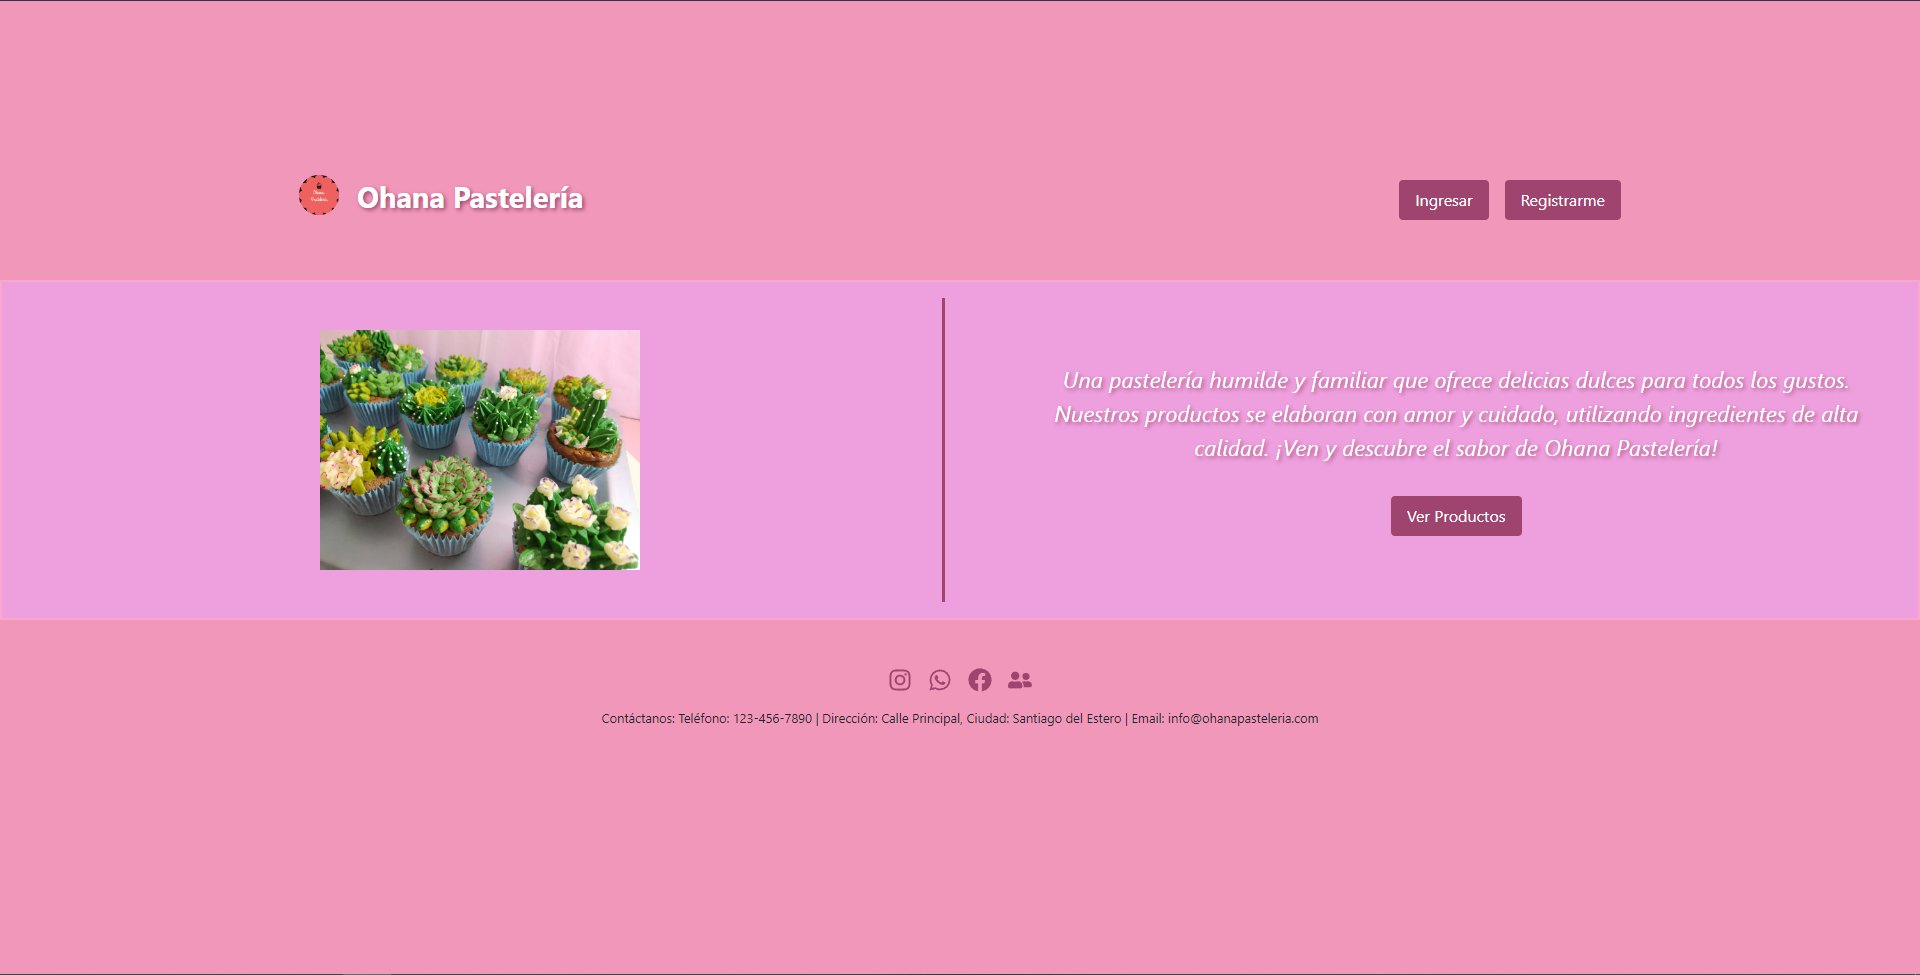
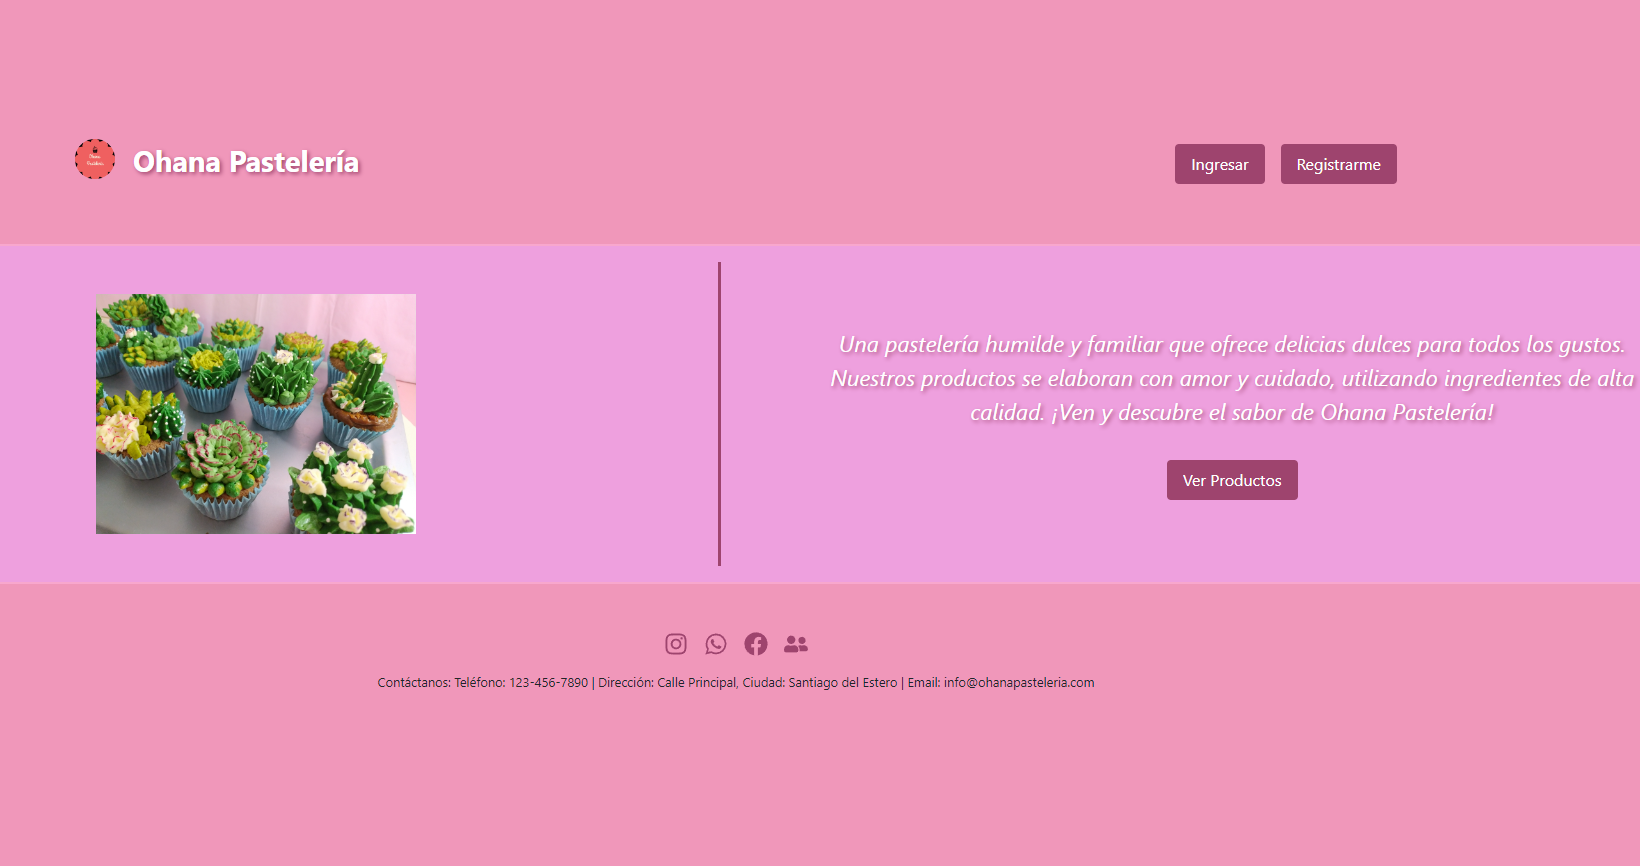
arreglo de navbar y botones para la seccion proyectos

diff --git a/src/components/Navbar.jsx b/src/components/Navbar.jsx
@@ -27,10 +27,10 @@ const Navbar = ({handleDark}) => {
         
         <nav className="flex md:flex-row  md:items-center w-[80%] 2xl:w-[70%] m-auto items-center  py-4 ">
             <div className="md:w-1/3 p-0 m-0 md:block">
-                <ul className={`md:flex md:items-center absolute md:static bg-white text-black md:bg-transparent md:text-white md:z-auto z-[-1] left-0  md:w-auto md:pl-0 pl-8 w-full  transition-all duration-500 ease-in ${open ? "top-16" : "top-[-350px]"}`}>
+                <ul className={`md:flex md:items-center absolute md:static bg-slate-100 dark:bg-slate-900 text-black md:bg-transparent md:text-white md:z-auto z-[-1] left-0  md:w-auto md:pl-0 pl-8 w-full  transition-all duration-500 ease-in ${open ? "top-16" : "top-[-350px]"} md:border-0  border-black border-b-2 `}>
                     {
                         Links?.map((link,index)=>(
-                            <li key={index} className="md:mx-2 text-black dark:text-white  md:my-0 my-7 hover:-translate-y-1 cursor-pointer duration-300 xl:text-xl">
+                            <li key={index} className="md:mx-2 text-black dark:text-white  md:my-0 my-7 hover:-translate-y-1 cursor-pointer duration-300 xl:text-xl ">
                                 <a href={link.link} >{link.name}</a>
                             </li>
                             

diff --git a/src/components/Projects.jsx b/src/components/Projects.jsx
@@ -11,9 +11,15 @@ const Projects = () => {
               <div className=" sticky w-full md:w-2/5 flex flex-col justify-center items-center p-4 m-4 bg-slate-200 dark:bg-slate-900 rounded-md border-2 border-violet-900" key={index}>
                 <img src={proyect.image} alt="" className="w-full " />
                 <section>
-                  <h4 className="pt-2 text-2xl">{proyect.title}</h4>
-                  <div>
-
+                  <h4 className="pt-2 text-2xl text-center">{proyect.title}</h4>
+                  
+                  <div className=" flex flex-col md:flex-row text-white">
+                    <a className="p-4 m-4 sticky rounded-lg bg-violet-600 hover:shadow-lg hover:shadow-violet-600/50 duration-300 flex gap-2  justify-center  items-center text-xl" href={proyect.deploy} target="_blank" rel="noreferrer"> 
+                        <span>VER DEMO</span> 
+                    </a>
+                    <a className=" p-4 m-4 sticky rounded-lg bg-violet-600 hover:shadow-lg hover:shadow-violet-600/50 duration-300 flex gap-2 justify-center items-center text-xl" href={proyect.github} target="_blank" rel="noreferrer" > 
+                        <span>REPOSITORIO</span>  
+                    </a>
                   </div>
                 </section>
                 <div>

diff --git a/src/helper/proyects.js b/src/helper/proyects.js
@@ -1,7 +1,11 @@
+import poke from "../assets/poke.png"
+import ohana from "../assets/ohana.png"
+import ram from "../assets/ram.png"
+
 const proyects = [
     {
        title:"Ohana Pastelería",
-       image:"https://github.com/Lewno/Porfolio/blob/main/src/assets/ohana2.png?raw=true",
+       image:ohana,
        description:"E-commerce de pastelería",
        tech:["react","node","sequalize"],
        github:"https://github.com/Manolo0178/PF-Cakes_team11",
@@ -9,7 +13,7 @@ const proyects = [
     },
     {
       title:"Pokemon App",
-      image:"https://github.com/Lewno/Porfolio/blob/main/src/assets/pokeapp.png?raw=true",
+      image:poke,
       description:"App de pokemon",
       tech:["react","node","sequalize"],
       github:"https://github.com/Lewno/PI-Pokemon-main",
@@ -17,7 +21,7 @@ const proyects = [
     },
    {
       title:"Rick and Morty App",
-      image:"https://github.com/Lewno/Porfolio/blob/main/src/assets/r2.png?raw=true",
+      image:ram,
       description:"App de Rick and Morty",
       tech:["react","node"],
       github:"https://github.com/Lewno/rick_and_morty",
